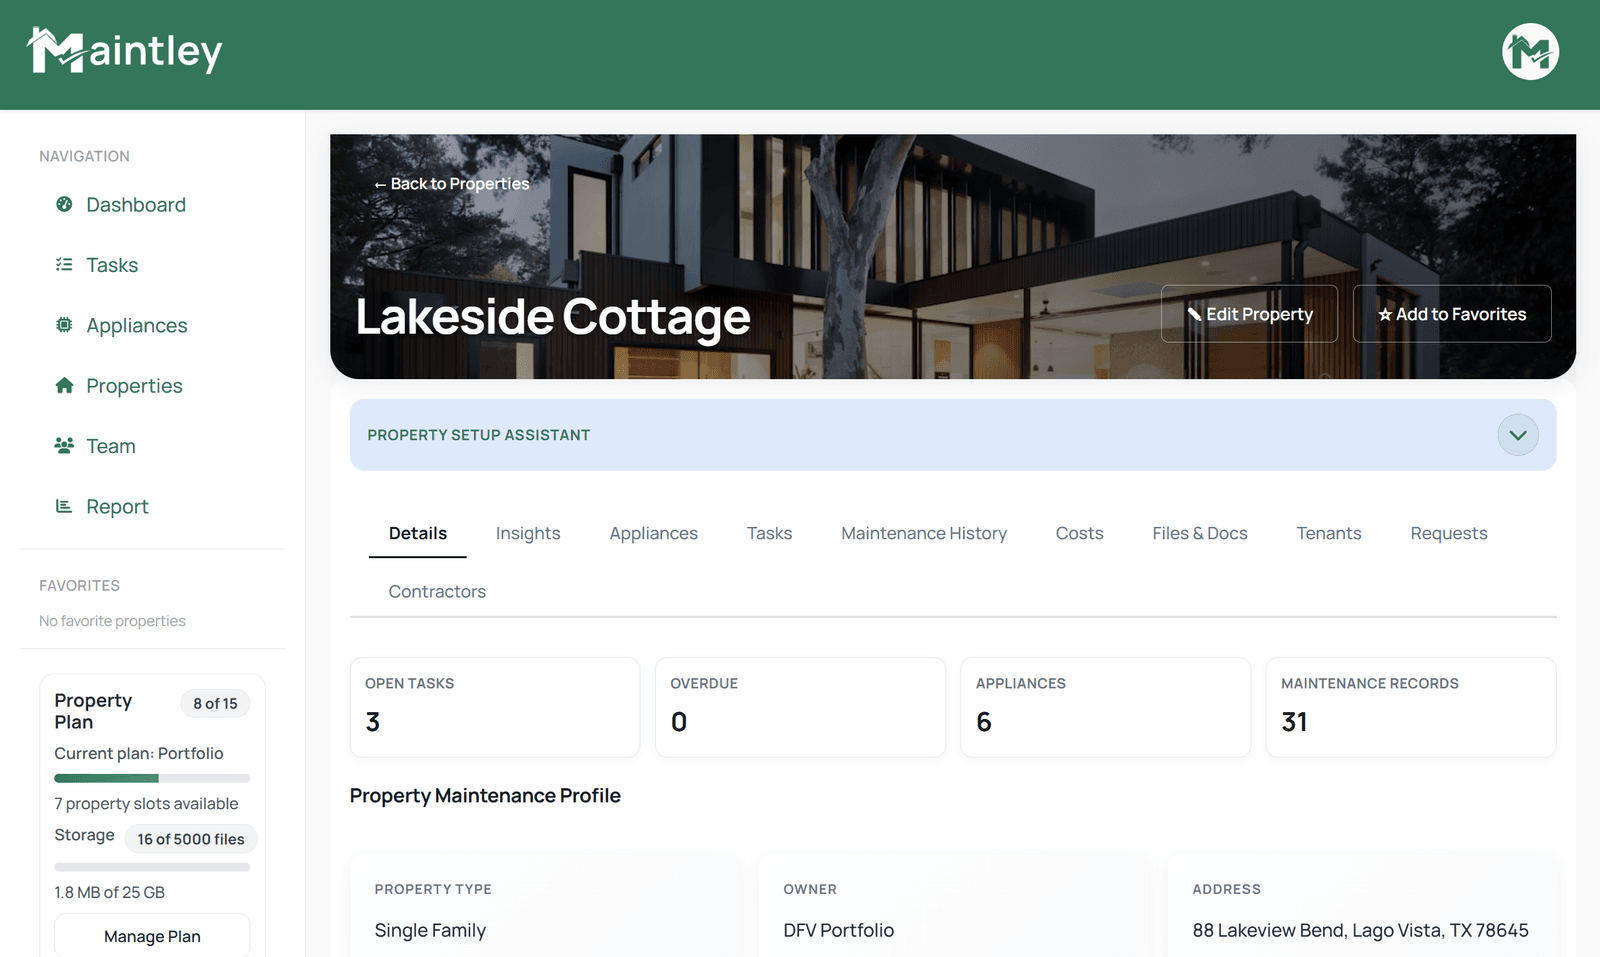
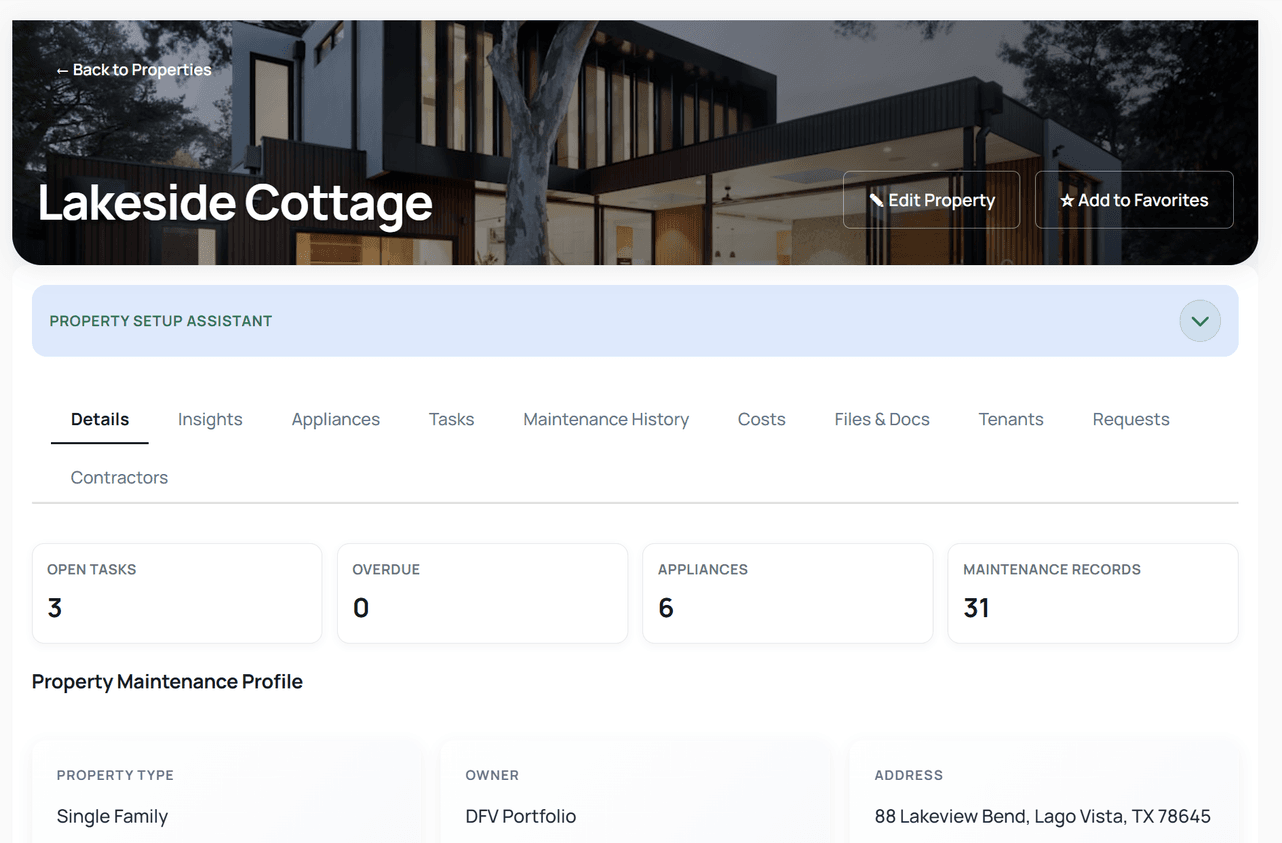
Refresh public visuals and responsive layout

diff --git a/public/homeowners/index.html b/public/homeowners/index.html
@@ -12,12 +12,12 @@
 		<meta property="og:title" content="Maintley for Homeowners | Home Maintenance Tracker" />
 		<meta property="og:description" content="Maintley helps homeowners track maintenance tasks, appliance records, warranties, manuals, service history, home documents, and recurring reminders." />
 		<meta property="og:url" content="https://maintleyapp.com/homeowners/" />
-		<meta property="og:image" content="https://maintleyapp.com/screenshots/maintleyHomeHero.png" />
-		<meta property="og:image:alt" content="Maintley homeowner maintenance tracking view" />
+		<meta property="og:image" content="https://maintleyapp.com/screenshots/desktop_propertydetails.png" />
+		<meta property="og:image:alt" content="Maintley Property Details page showing property maintenance sections and record counts" />
 		<meta name="twitter:card" content="summary_large_image" />
 		<meta name="twitter:title" content="Maintley for Homeowners | Home Maintenance Tracker" />
 		<meta name="twitter:description" content="Maintley helps homeowners track maintenance tasks, appliance records, warranties, manuals, service history, home documents, and recurring reminders." />
-		<meta name="twitter:image" content="https://maintleyapp.com/screenshots/maintleyHomeHero.png" />
+		<meta name="twitter:image" content="https://maintleyapp.com/screenshots/desktop_propertydetails.png" />
 		<link rel="stylesheet" href="/seo-page.css" />
 	</head>
 	<body>
@@ -65,7 +65,7 @@
 						<p>Use Maintley to see the next maintenance task, the last completed service, and the records that make future repairs easier to handle.</p>
 					</div>
 					<div class="screenshot-frame">
-						<img src="/screenshots/maintleyHomeHero.png" alt="Maintley home maintenance view with property records and home activity" loading="lazy" />
+						<img src="/screenshots/desktop_propertydetails.png" alt="Maintley Property Details page showing maintenance sections and record counts" loading="lazy" />
 					</div>
 				</div>
 				<div class="grid">

diff --git a/public/resources/how-to-create-home-maintenance-log/index.html b/public/resources/how-to-create-home-maintenance-log/index.html
@@ -12,12 +12,12 @@
 		<meta property="og:title" content="How to Create a Home Maintenance Log | Maintley" />
 		<meta property="og:description" content="Learn how to create a home maintenance log with dates, service notes, costs, contractors, equipment links, photos, invoices, and recurring reminders." />
 		<meta property="og:url" content="https://maintleyapp.com/resources/how-to-create-home-maintenance-log/" />
-		<meta property="og:image" content="https://maintleyapp.com/screenshots/maintleyHomeTimeline.png" />
+		<meta property="og:image" content="https://maintleyapp.com/screenshots/desktop_taskhistory.png" />
 		<meta property="og:image:alt" content="Maintley home timeline and maintenance history view" />
 		<meta name="twitter:card" content="summary_large_image" />
 		<meta name="twitter:title" content="How to Create a Home Maintenance Log | Maintley" />
 		<meta name="twitter:description" content="Learn how to create a home maintenance log with dates, service notes, costs, contractors, equipment links, photos, invoices, and recurring reminders." />
-		<meta name="twitter:image" content="https://maintleyapp.com/screenshots/maintleyHomeTimeline.png" />
+		<meta name="twitter:image" content="https://maintleyapp.com/screenshots/desktop_taskhistory.png" />
 		<link rel="stylesheet" href="/seo-page.css" />
 		<script type="application/ld+json">
 			{
@@ -28,7 +28,7 @@
 						"headline": "How to Create a Home Maintenance Log",
 						"description": "A practical guide to creating a home maintenance log with dates, costs, documents, equipment links, and reminders.",
 						"mainEntityOfPage": "https://maintleyapp.com/resources/how-to-create-home-maintenance-log/",
-						"image": "https://maintleyapp.com/screenshots/maintleyHomeTimeline.png",
+						"image": "https://maintleyapp.com/screenshots/desktop_taskhistory.png",
 						"datePublished": "2026-07-11",
 						"dateModified": "2026-07-11",
 						"author": { "@type": "Organization", "name": "Maintley" },

diff --git a/public/home-health/index.html b/public/home-health/index.html
@@ -12,12 +12,12 @@
 		<meta property="og:title" content="Home Health Dashboard | Maintley" />
 		<meta property="og:description" content="Maintley's Home Health view helps homeowners understand open maintenance, recent service history, equipment records, documents, and property context in one place." />
 		<meta property="og:url" content="https://maintleyapp.com/home-health/" />
-		<meta property="og:image" content="https://maintleyapp.com/screenshots/maintleyHomeIntelligence.png" />
+		<meta property="og:image" content="https://maintleyapp.com/screenshots/desktop_quickscan2.png" />
 		<meta property="og:image:alt" content="Maintley Home Health and property intelligence view" />
 		<meta name="twitter:card" content="summary_large_image" />
 		<meta name="twitter:title" content="Home Health Dashboard | Maintley" />
 		<meta name="twitter:description" content="Maintley's Home Health view helps homeowners understand open maintenance, recent service history, equipment records, documents, and property context in one place." />
-		<meta name="twitter:image" content="https://maintleyapp.com/screenshots/maintleyHomeIntelligence.png" />
+		<meta name="twitter:image" content="https://maintleyapp.com/screenshots/desktop_quickscan2.png" />
 		<link rel="stylesheet" href="/seo-page.css" />
 	</head>
 	<body>
@@ -65,7 +65,7 @@
 						<p>Home Health surfaces overdue work, recent activity, missing equipment details, and useful recommendations based on the home record.</p>
 					</div>
 					<div class="screenshot-frame">
-						<img src="/screenshots/maintleyHomeIntelligence.png" alt="Maintley Home Health and property intelligence recommendation view" loading="lazy" />
+						<img src="/screenshots/desktop_quickscan2.png" alt="Maintley Intelligence property scan results showing explainable maintenance findings" loading="lazy" />
 					</div>
 				</div>
 				<div class="grid">

diff --git a/src/pages/LandingPage/LandingPage.test.tsx b/src/pages/LandingPage/LandingPage.test.tsx
@@ -4,7 +4,7 @@ import { MemoryRouter } from 'react-router-dom';
 import LandingPageComponent from './LandingPage';
 
 describe('LandingPage public hierarchy', () => {
-	it('shows product proof and audience fit before the core feature overview', () => {
+	it('shows product proof and audience fit without repeating the feature catalog', () => {
 		render(
 			<MemoryRouter>
 				<LandingPageComponent />
@@ -19,7 +19,6 @@ describe('LandingPage public hierarchy', () => {
 			'ProductProof',
 			'HowItWorks',
 			'Solutions',
-			'Features',
 			'Security',
 			'Pricing',
 		]);
@@ -30,10 +29,29 @@ describe('LandingPage public hierarchy', () => {
 		).toBeInTheDocument();
 		expect(
 			document.querySelectorAll('img[src^="/screenshots/maintley"]'),
-		).toHaveLength(4);
+		).toHaveLength(2);
+		expect(
+			screen.getByRole('img', {
+				name:
+					'Maintley Maintenance History tab showing completed work and record details',
+			}),
+		).toHaveAttribute('src', '/screenshots/desktop_taskhistory.png');
+		expect(
+			screen.getByRole('img', {
+				name:
+					'Maintley Intelligence property scan results showing explainable maintenance findings',
+			}),
+		).toHaveAttribute('src', '/screenshots/desktop_quickscan2.png');
 		expect(screen.getByText('For Homeowners')).toBeInTheDocument();
 		expect(screen.getByText('For Property Owners & Managers')).toBeInTheDocument();
 		expect(screen.queryByText('Service Businesses')).not.toBeInTheDocument();
+		expect(screen.queryByRole('heading', { name: 'Core Features' })).not.toBeInTheDocument();
+		expect(
+			screen.getByRole('img', {
+				name:
+					'Illustrated home connected to maintenance, document, schedule, and warranty records',
+			}),
+		).toHaveAttribute('src', '/screenshots/maintleyHomeHeroV2.webp');
 	});
 
 	it('keeps pricing compact while preserving every current public plan', () => {

diff --git a/public/home-maintenance-log/index.html b/public/home-maintenance-log/index.html
@@ -12,12 +12,12 @@
 		<meta property="og:title" content="Home Maintenance Log | Maintley" />
 		<meta property="og:description" content="Create a home maintenance log with completed repairs, service records, invoices, photos, documents, equipment links, and recurring maintenance history." />
 		<meta property="og:url" content="https://maintleyapp.com/home-maintenance-log/" />
-		<meta property="og:image" content="https://maintleyapp.com/screenshots/maintleyHomeTimeline.png" />
+		<meta property="og:image" content="https://maintleyapp.com/screenshots/desktop_taskhistory.png" />
 		<meta property="og:image:alt" content="Maintley home timeline and maintenance history view" />
 		<meta name="twitter:card" content="summary_large_image" />
 		<meta name="twitter:title" content="Home Maintenance Log | Maintley" />
 		<meta name="twitter:description" content="Create a home maintenance log with completed repairs, service records, invoices, photos, documents, equipment links, and recurring maintenance history." />
-		<meta name="twitter:image" content="https://maintleyapp.com/screenshots/maintleyHomeTimeline.png" />
+		<meta name="twitter:image" content="https://maintleyapp.com/screenshots/desktop_taskhistory.png" />
 		<link rel="stylesheet" href="/seo-page.css" />
 		<script type="application/ld+json">
 			{

diff --git a/src/pages/LandingPage/LandingPage.styles.tsx b/src/pages/LandingPage/LandingPage.styles.tsx
@@ -1825,6 +1825,7 @@ export const FooterContent = styled.div`
 
 	@media (max-width: 1024px) {
 		grid-template-columns: 1fr;
+		row-gap: 24px;
 		margin-bottom: 30px;
 	}
 `;
@@ -1833,6 +1834,12 @@ export const FooterBrand = styled.div`
 	width: 80%;
 	max-width: 400px;
 	padding: 0 10px;
+
+	@media (max-width: 1024px) {
+		width: 100%;
+		max-width: 560px;
+		padding: 0;
+	}
 
 	@media (max-width: 480px) {
 		width: 100%;
@@ -1861,19 +1868,22 @@ export const FooterBrand = styled.div`
 export const FooterLinks = styled.div`
 	display: grid;
 	width: 100%;
-	grid-template-columns: repeat(5, minmax(110px, 1fr));
+	grid-template-columns: repeat(4, minmax(120px, 1fr));
 	gap: 28px;
 	padding-top: 4px;
 
 	@media (max-width: 1024px) {
-		grid-template-columns: repeat(3, minmax(140px, 1fr));
-		gap: 28px 20px;
+		grid-template-columns: minmax(170px, 200px) minmax(220px, 280px);
+		column-gap: clamp(28px, 5vw, 52px);
+		row-gap: 28px;
+		justify-content: start;
+		padding-top: 0;
 	}
 
-	@media (max-width: 480px) {
-		padding-top: 20px;
-		grid-template-columns: repeat(2, minmax(120px, 1fr));
-		gap: 28px 18px;
+	@media (max-width: 640px) {
+		grid-template-columns: 1fr;
+		row-gap: 24px;
+		column-gap: 0;
 	}
 `;
 

diff --git a/src/pages/LandingPage/components/HomepageSections.tsx b/src/pages/LandingPage/components/HomepageSections.tsx
@@ -64,19 +64,19 @@ const proofItems = [
 		kicker: 'Maintenance history',
 		title: 'Keep a timeline future you can trust',
 		text: 'Completed work, notes, and documents stay connected to the property instead of disappearing into separate folders.',
-		image: '/screenshots/maintleyHomeTimeline.png',
-		width: 1239,
-		height: 896,
-		alt: 'Maintley home timeline showing maintenance and service history',
+		image: '/screenshots/desktop_taskhistory.png',
+		width: 1282,
+		height: 835,
+		alt: 'Maintley Maintenance History tab showing completed work and record details',
 	},
 	{
 		kicker: 'Maintley Intelligence',
 		title: 'Turn saved records into explainable next steps',
 		text: 'Maintley reviews what has been recorded and points out a small number of gaps or opportunities worth your attention.',
-		image: '/screenshots/maintleyHomeIntelligence.png',
-		width: 1289,
-		height: 572,
-		alt: 'Maintley Intelligence recommendations based on saved property records',
+		image: '/screenshots/desktop_quickscan2.png',
+		width: 1203,
+		height: 629,
+		alt: 'Maintley Intelligence property scan results showing explainable maintenance findings',
 	},
 ];
 

diff --git a/src/pages/LandingPage/LandingPage.tsx b/src/pages/LandingPage/LandingPage.tsx
@@ -3,7 +3,6 @@ import { useNavigate } from 'react-router-dom';
 import { LandingNavbar } from 'Components/Library/LandingNavbar';
 import SEO from 'Components/SEO/SEO';
 import HeroSection from './components/Hero';
-import FeaturesSectionComponent from './components/FeaturesSection';
 import {
 	HowItWorksSection,
 	PricingPreviewSection,
@@ -63,7 +62,6 @@ const LandingPageComponent = () => {
 				<ProductProofSection />
 				<HowItWorksSection />
 				<SolutionsSection />
-				<FeaturesSectionComponent />
 				<SecuritySection />
 				<PricingPreviewSection />
 

diff --git a/src/pages/LandingPage/components/Hero.tsx b/src/pages/LandingPage/components/Hero.tsx
@@ -30,10 +30,10 @@ const HeroSection = () => {
 			</HeroContent>
 			<HeroImage>
 				<img
-					src='/screenshots/maintleyHomeHero.png'
-					width='714'
-					height='561'
-					alt='Maintley property overview showing home maintenance records and next steps'
+					src='/screenshots/maintleyHomeHeroV2.webp'
+					width='1415'
+					height='1111'
+					alt='Illustrated home connected to maintenance, document, schedule, and warranty records'
 					decoding='async'
 				/>
 			</HeroImage>
